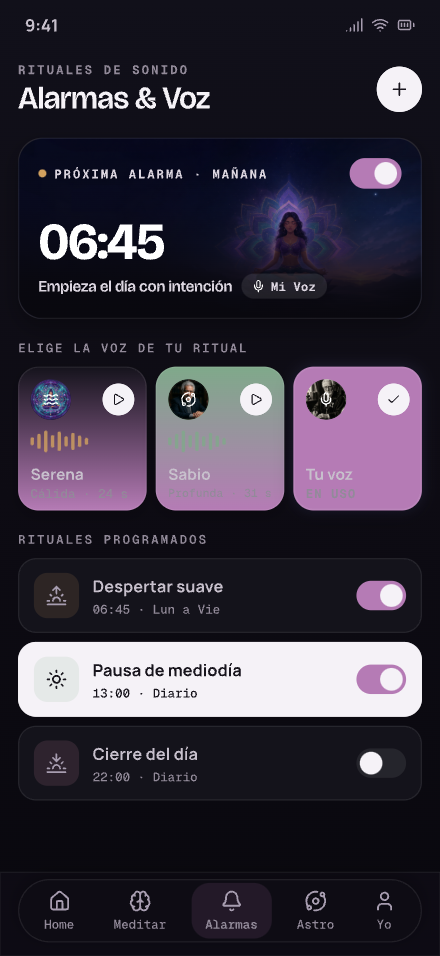
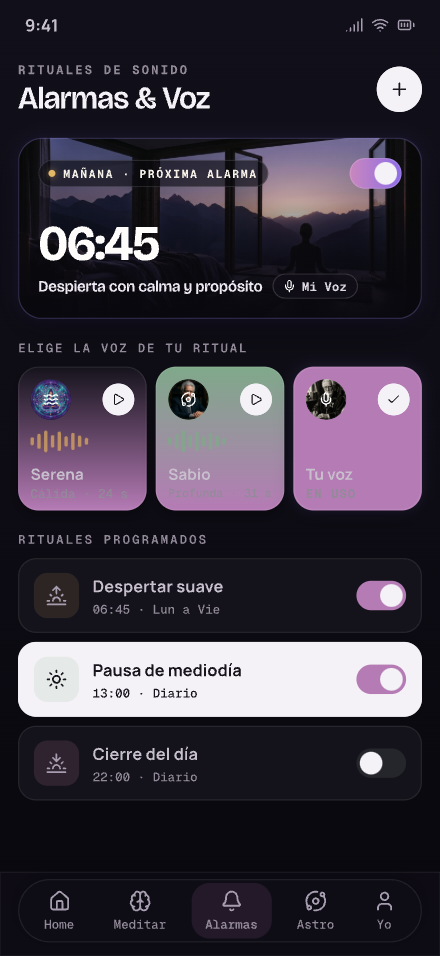
feat: refresh alarms and voice screen

Changed region(s): [[0.0886, 0.1213, 0.975, 0.3337]]

diff --git a/lib/screens/home_screen.dart b/lib/screens/home_screen.dart
@@ -23,6 +23,10 @@ class _HomeScreenState extends State<HomeScreen> {
     if (_current == 0 && point.dy > .38 && point.dy < .70) {
       context.push('/player');
     }
+    if (_current == 2 && point.dx > .82 && point.dy > .055 && point.dy < .135) {
+      context.push('/new-alarm');
+      return;
+    }
     if (_current == 3 && point.dy > .42 && point.dy < .84) {
       context.push('/marketplace');
     }
